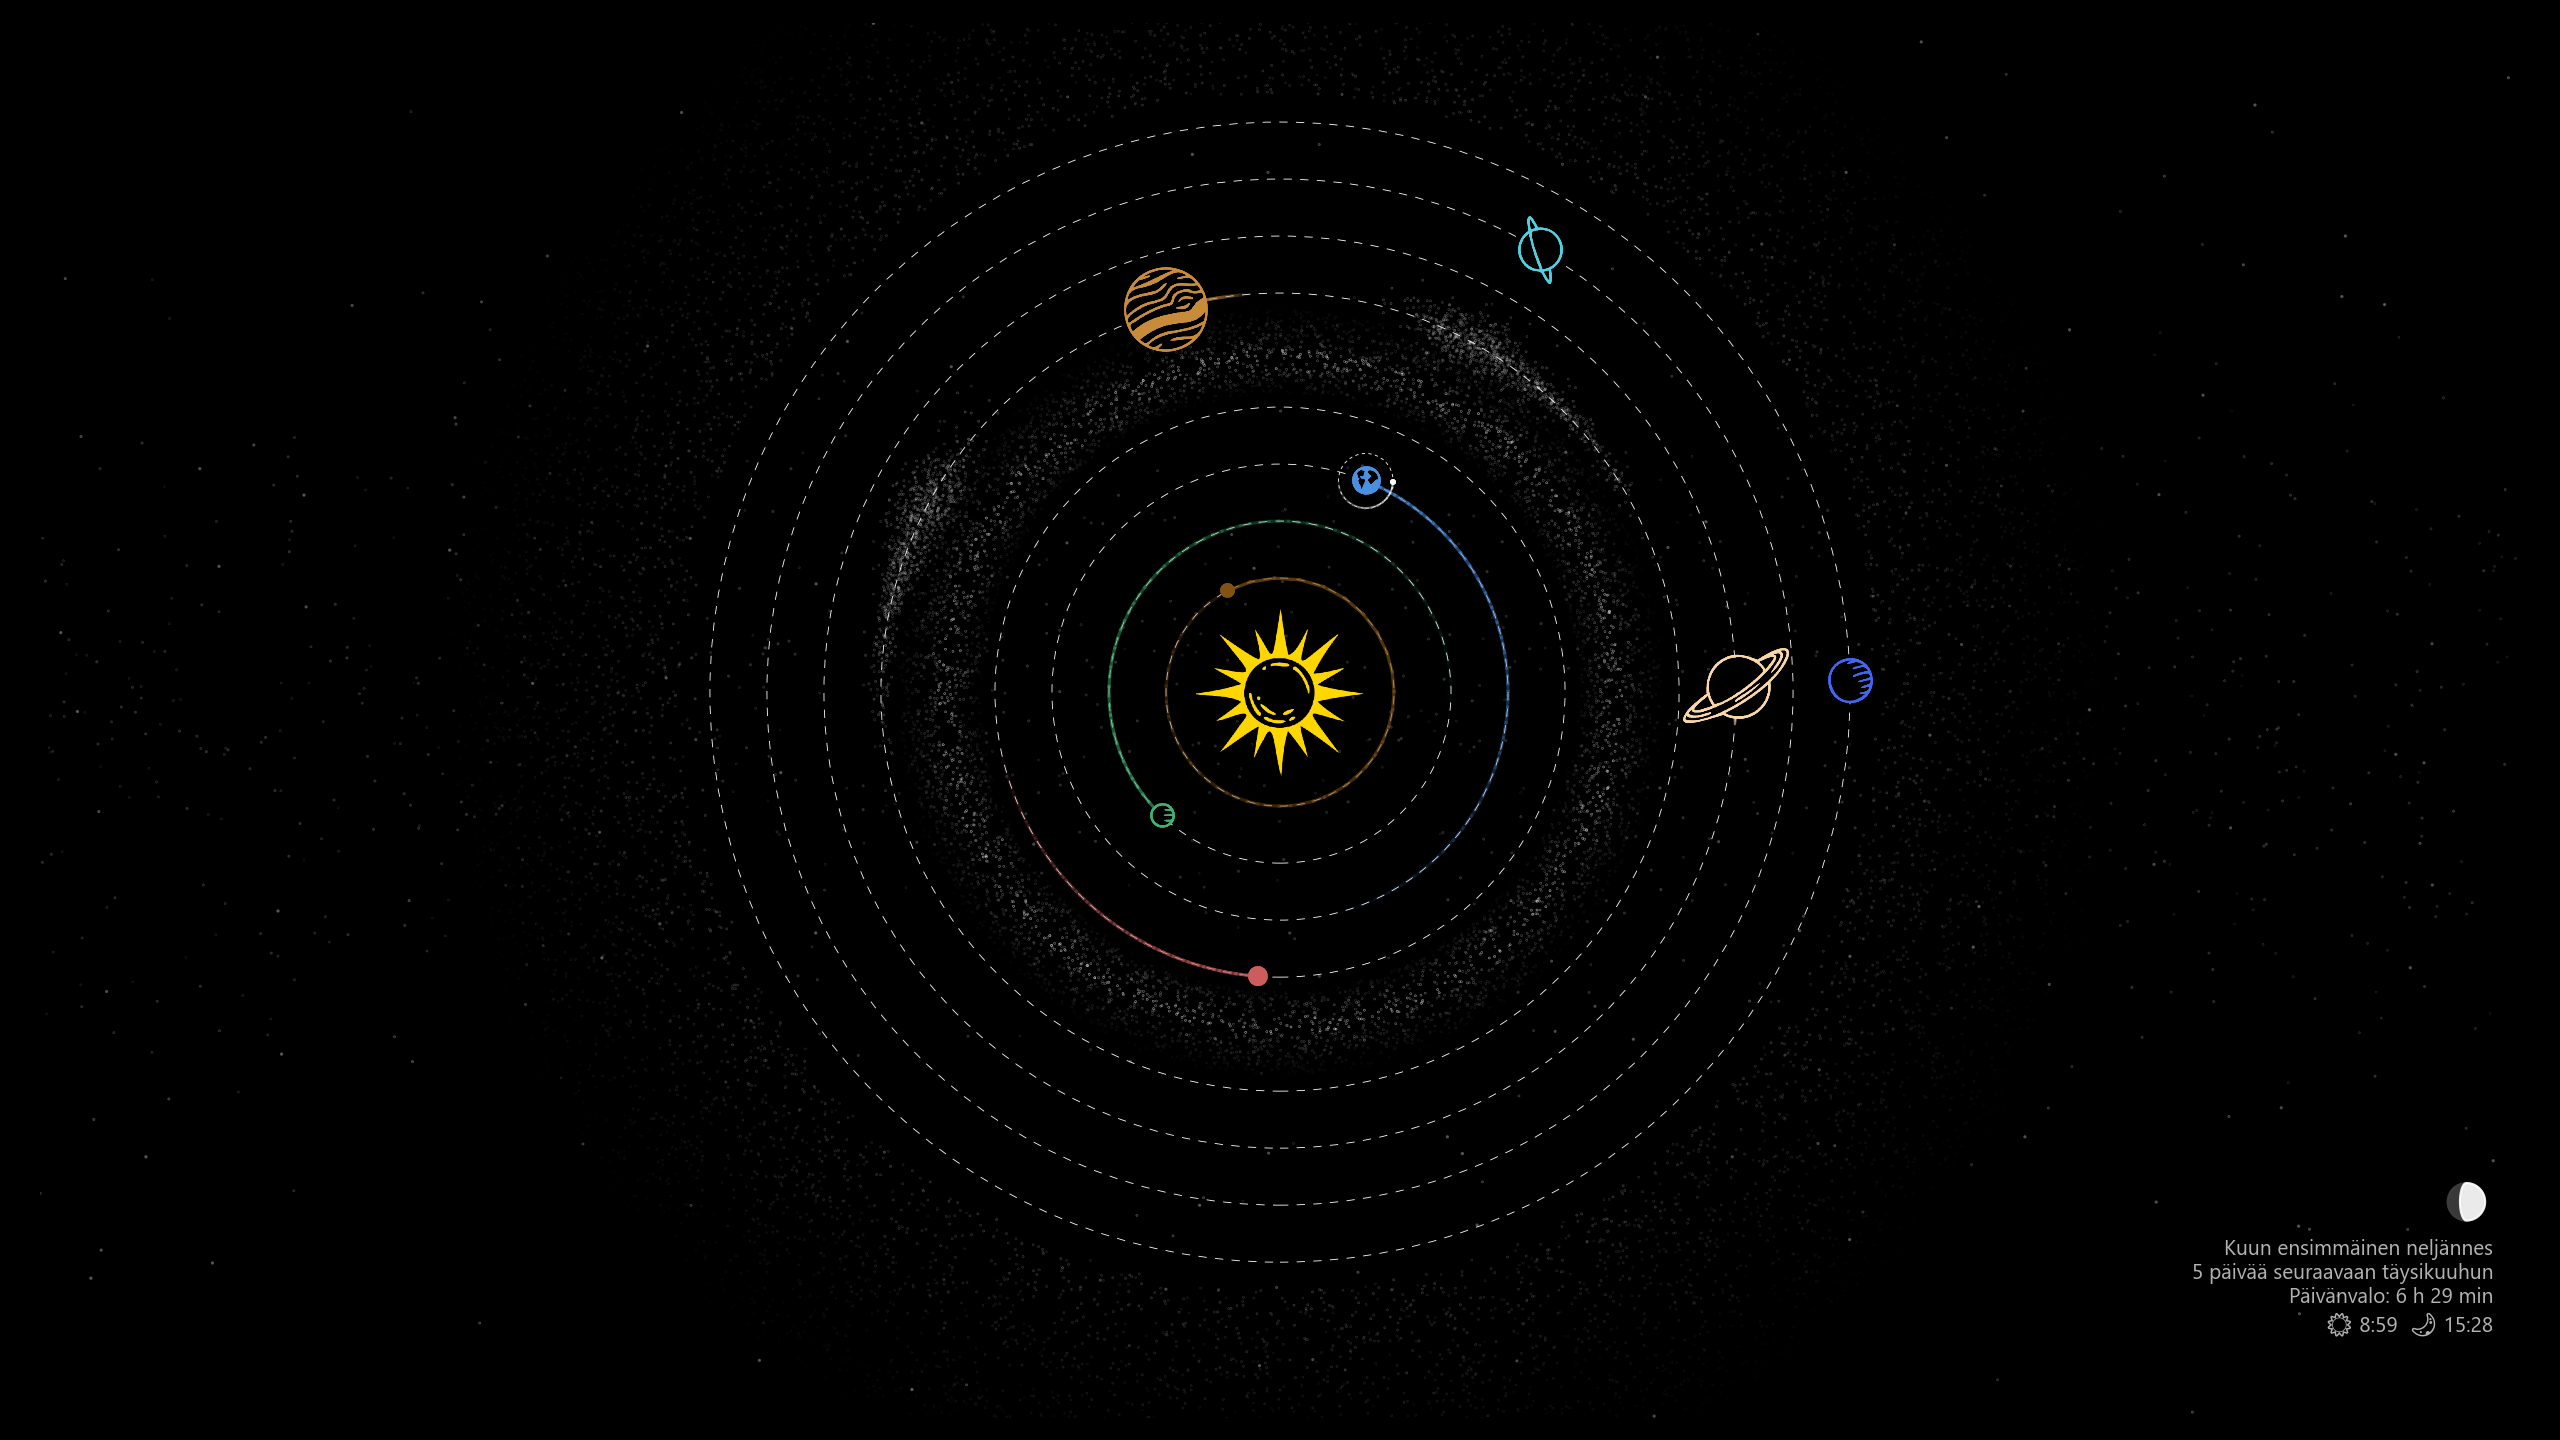
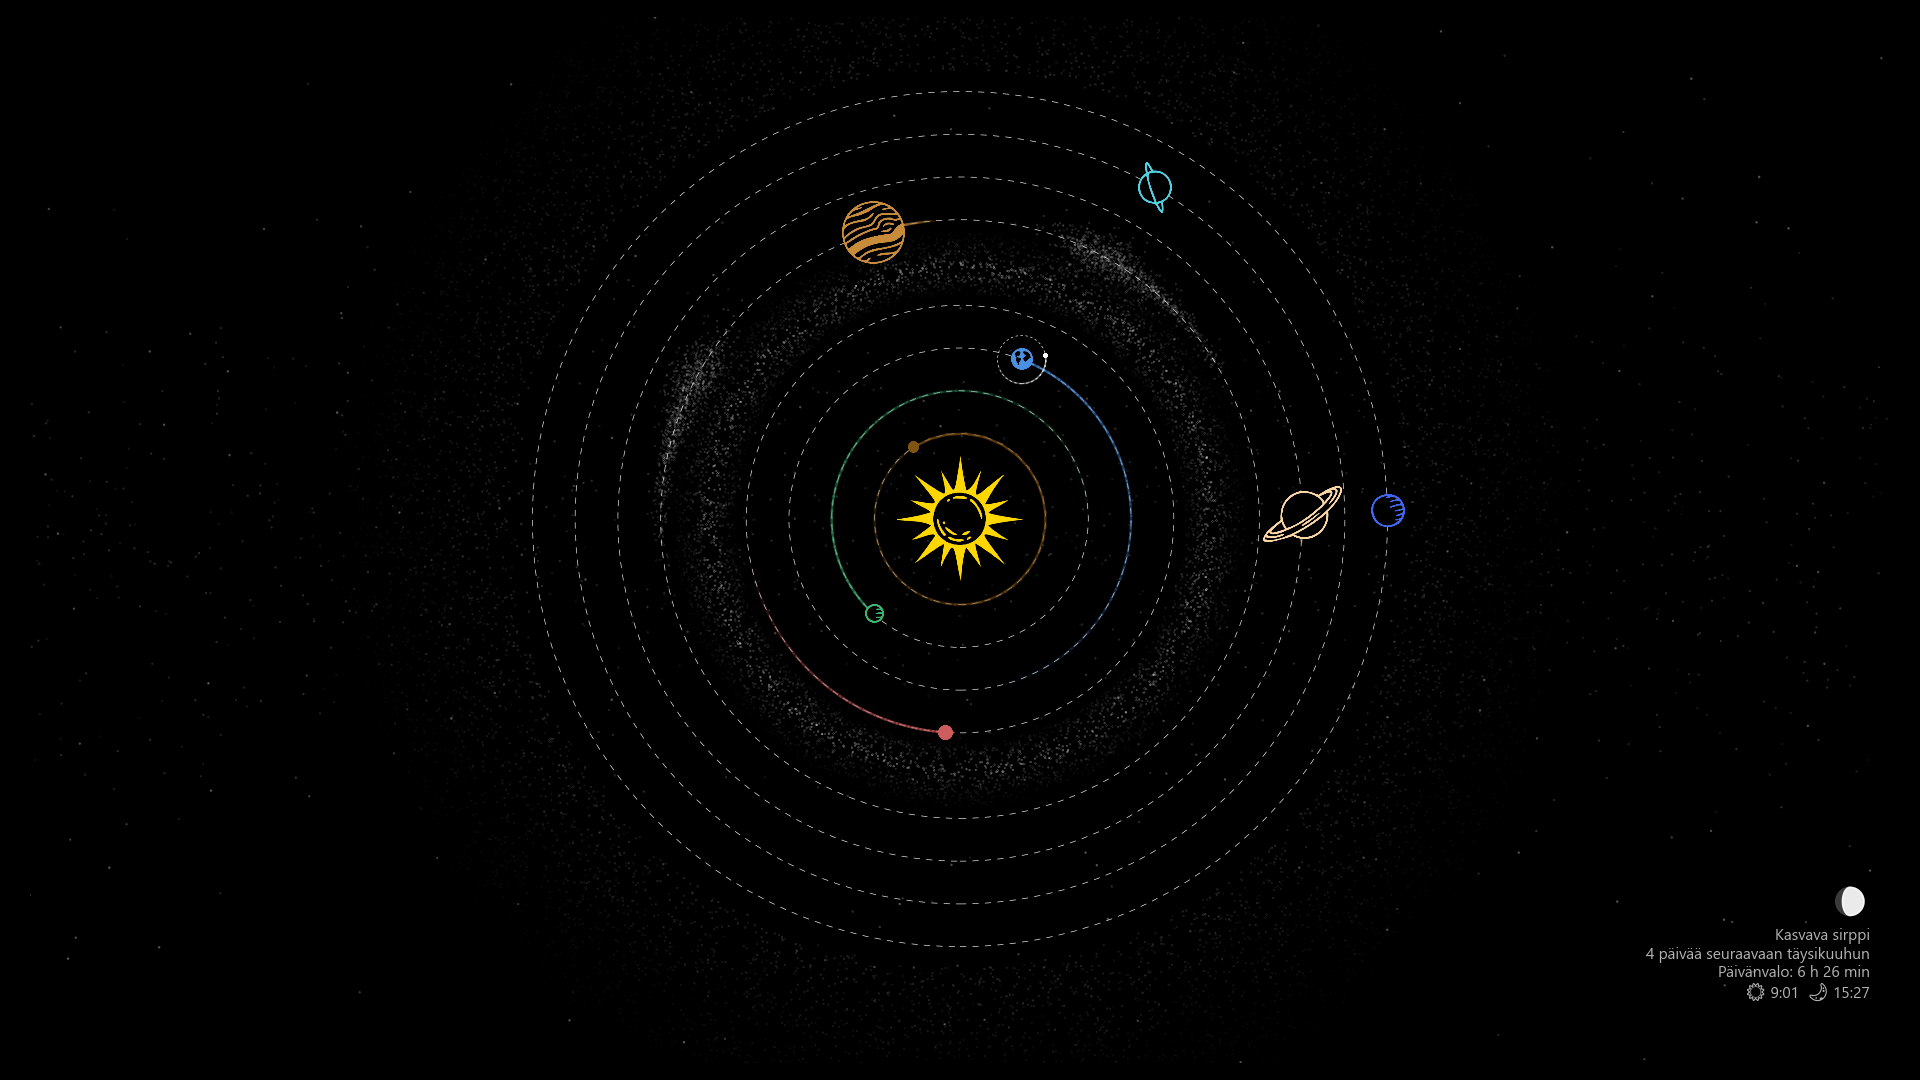
Moon ring scale fix

diff --git a/solarmap.py b/solarmap.py
@@ -99,8 +99,8 @@ longitudes = {planet.name: EclipticLongitude(planet, utc) for planet in planets}
 
 # Canvas setup
 #   Set wallpaper resolution
-width_px = 2560
-height_px = 1440
+width_px = 1920
+height_px = 1080
 
 reference_height = 1440
 reference_dpi = 150 # Reference DPI for scaling, change for bigger/smaller planets and stars
@@ -353,7 +353,7 @@ for offset in [60, -60]:
 # Earth's Moon
 #     Moon ring
 moon_ring_size = 250 # To keep Moon ring consistent across DPIs
-earth_ring_r = (r_base / 10) * (dpi / moon_ring_size)
+earth_ring_r = 0.06  # adjust visually
 ax.add_patch(
     plt.Circle(
         (earth_x, earth_y),
